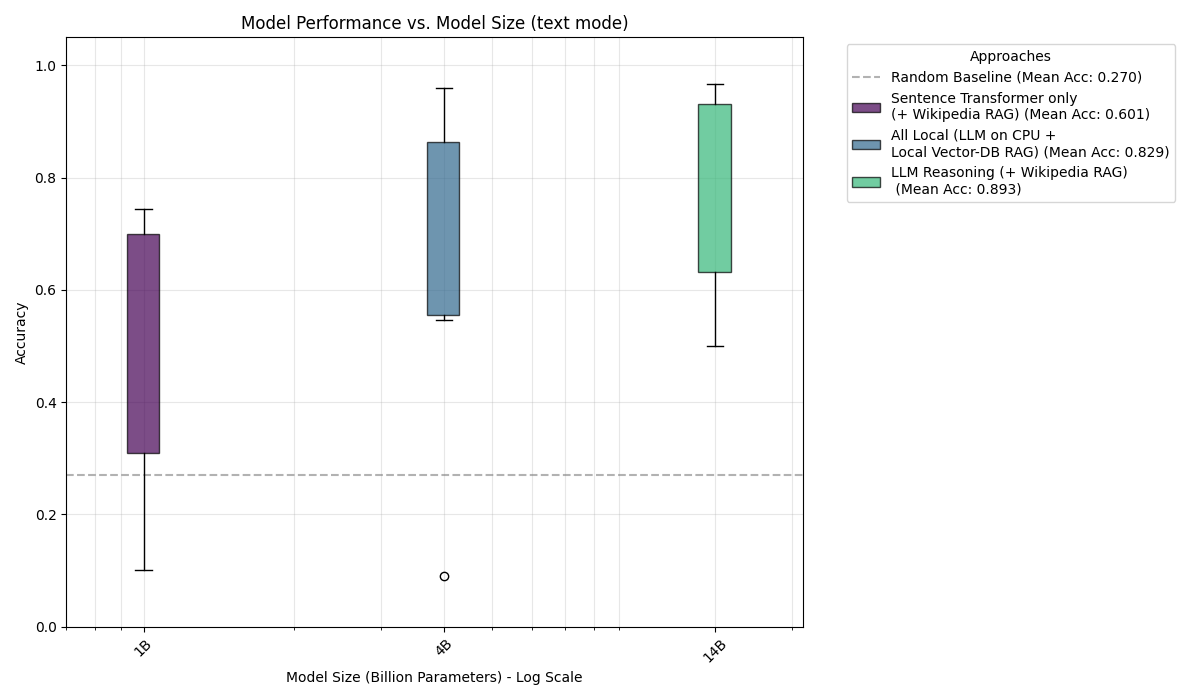
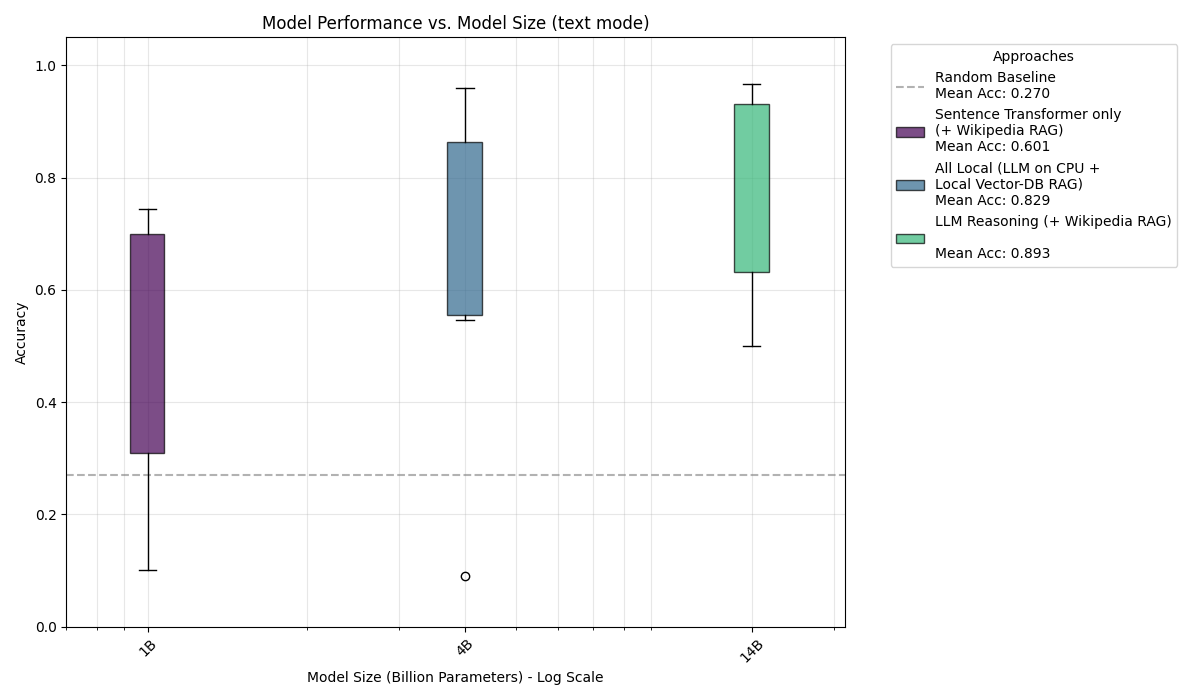
harmonize plots

diff --git a/plots/performance_plots.py b/plots/performance_plots.py
@@ -205,7 +205,8 @@ ax2.grid(True, which="both", ls="-", alpha=0.2)
 ax2.set_ylim(0, 1.05)
 ax2.set_xticks(ticks)
 ax2.set_xticklabels(tick_labels, rotation=45)
-ax2.set_xlim(min(ticks) * 0.6, max(ticks) * 2.5) 
+# Set consistent x-limits with more margin for labels
+ax2.set_xlim(min(ticks) * 0.4, max(ticks) * 2.5)
 handles, labels = ax2.get_legend_handles_labels()
 unique_handles_labels = {}
 for h, l in zip(handles, labels):
@@ -256,6 +257,8 @@ ax3.grid(True, which="both", ls="-", alpha=0.2)
 ax3.set_ylim(0, 1.1)
 ax3.set_xticks(ticks)
 ax3.set_xticklabels(tick_labels, rotation=45)
+# Set consistent x-limits with more margin for labels
+ax3.set_xlim(min(ticks) * 0.4, max(ticks) * 2.5)
 ax3.legend(loc='upper left', bbox_to_anchor=(1.05, 1))
 plt.tight_layout()
 plt.savefig('text_vs_speech_comparison.png')
